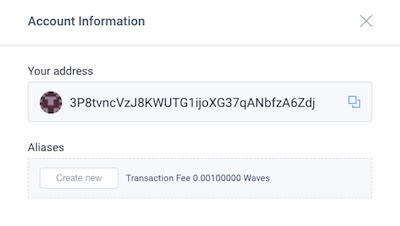
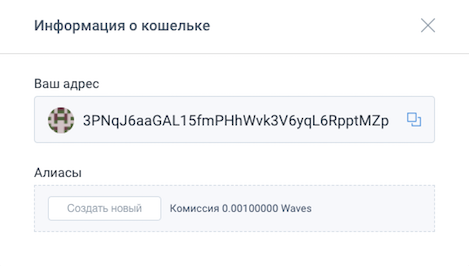
Updates

diff --git a/ru/waves-client/account-management/creating-an-alias.md b/ru/waves-client/account-management/creating-an-alias.md
@@ -1,27 +1,25 @@
-# **Create a personal Alias**
+# **Создание персонального alias**
 
-An Alias is a string between 4 and 30 characters long consisting of lowercase Latin letters, digits and symbols **@, -, \_,** used to simplify transactions.  
-It is possible to specify aliases instead of full address for asset transfers and leasing transactions.  
-The cost is limited to 0.001 WAVES \(the Tx fee\).
+Alias - это строка длиной от 4 до 30 знаков, состоящая из строчных латинских букв, цифр и символов **(@, -, _)**, используемых для упрощения транзакций. При совершении транзакции, в том числе транзакций лизинга вы можете указать вместо Waves адреса получателя, его Alias. Комиссия за создание Alias составляет 0,001 Waves.
 
-# **Creating an Alias in 3 Simple Steps**
+Создать Alias очень просто.
 
 The creation of an Alias is very straightforward;
 
-**Step 1:** Login to your Wallet.
+**Шаг 1**: Войдите в свой Кошелек.
 
-![](/_assets/creating_an_alias_01.png)
+![](/ru/_assets/creating_an_alias_01.png)
 
-**Step 2:** Click on the User icon ![](/_assets/creating_an_alias_02.png) in the top left corner.  
-The following windows will appear, then click on the **Create new**.
+**Шаг 2**: нажмите на иконку пользователя ![](/ru/_assets/creating_an_alias_02.png) в левом верхнем углу.  
+В появившемся окне нажмите на **Создать новый**.
 
-![](/_assets/creating_an_alias_03.png)
+![](/ru/_assets/creating_an_alias_03.png)
 
-**Step 3:** Choose an Alias  
-You can use only lowercase latin letters, digits and symbols **@, -, \_,** between 4 and 30 chars long.  
-After you have done it, just click on the Create new to complete the procedure.
+**Шаг 3**: выберите и введите Alias.
 
-![](/_assets/creating_an_alias_04.png)
+Принимаются только строчные латинские буквы, цифры и символы **(@, -, _,)** от 4 до 30 знаков длиной.
+После этого нажмите на **Создать новый** для завершения процедуры.
 
-Your Alias should be ready to use as from the next block update.
+![](/ru/_assets/creating_an_alias_04.png)
 
+Вы сможете использовать Alias по назначению спустя 1 блок (1 минута).
